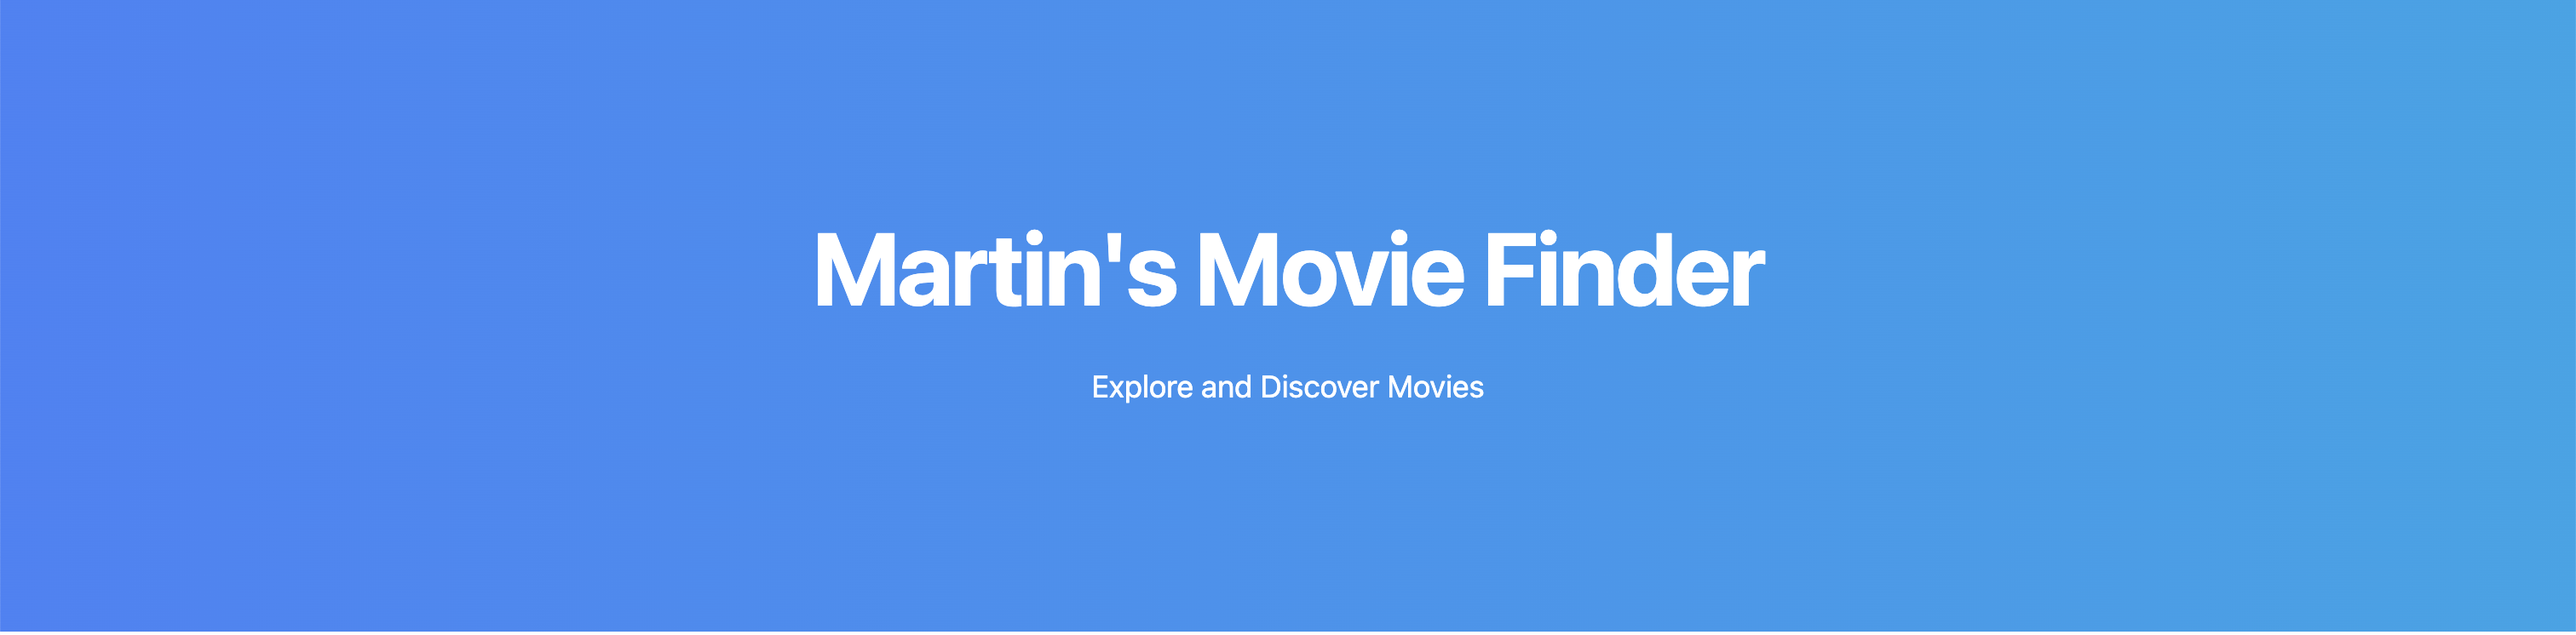
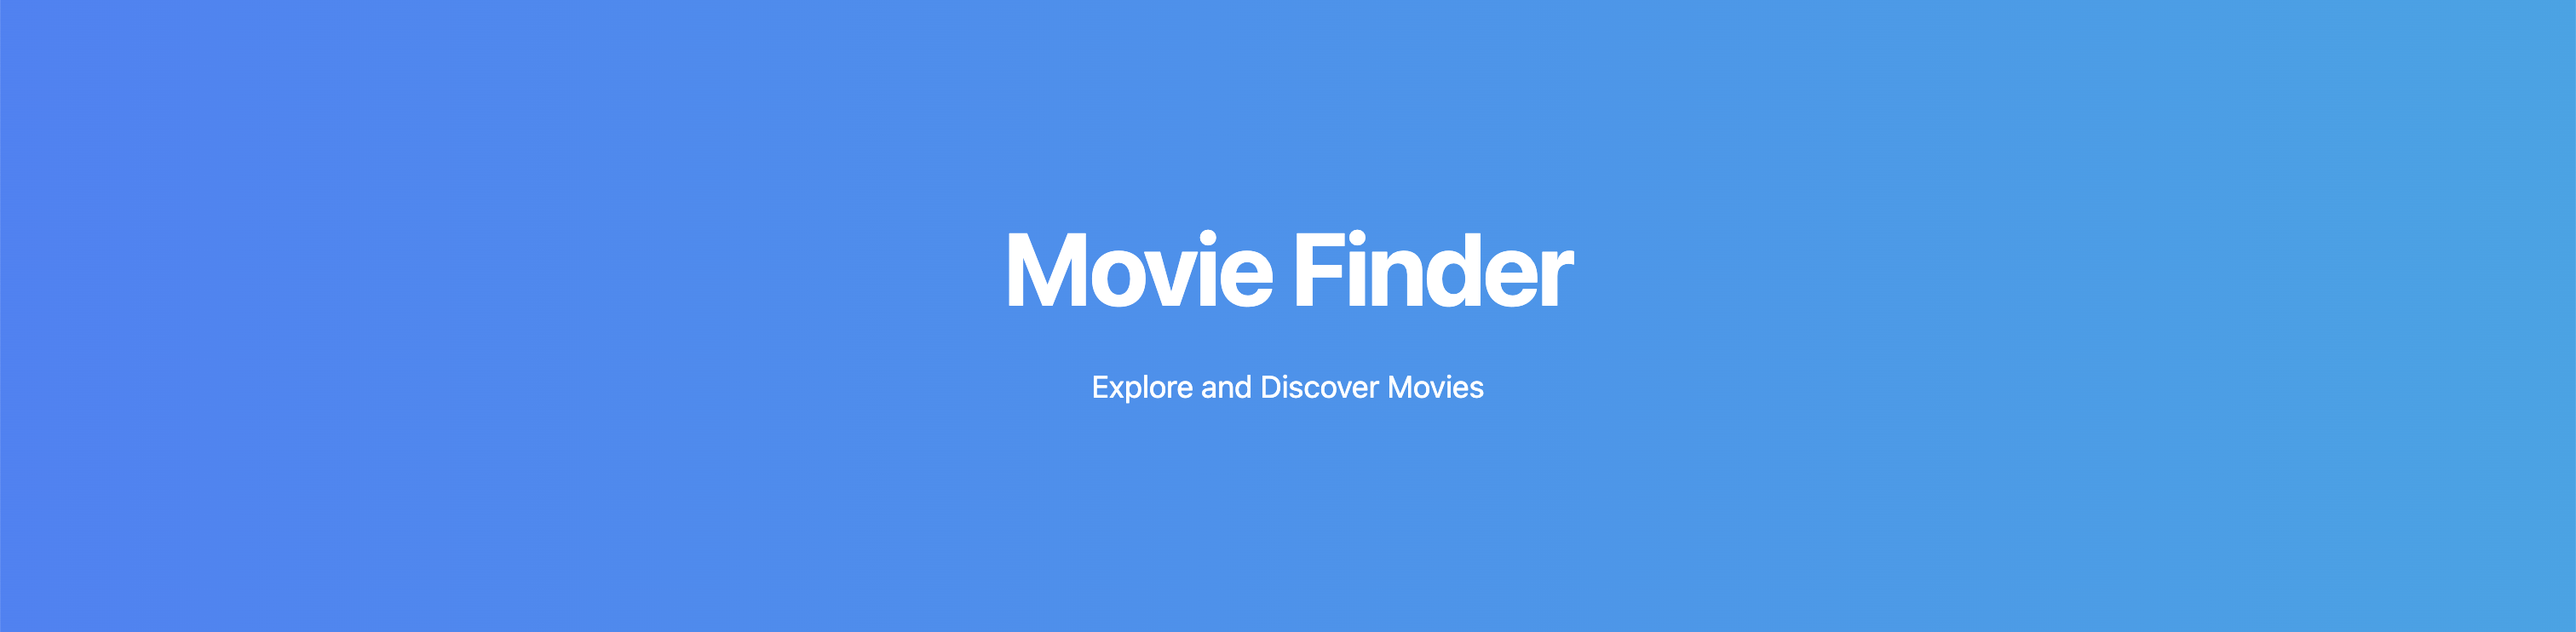
minor change

Changed region(s): [[0.3108, 0.341, 0.6839, 0.496], [0.0, 0.9919, 1.0, 1.0], [0.4041, 0.5889, 0.5906, 0.6509]]

diff --git a/src/components/Sections/Header/Header.tsx b/src/components/Sections/Header/Header.tsx
@@ -2,7 +2,7 @@ const Header = () => (
 	<div className="sticky md:relative z-20 flex bg-gradient-to-r from-blue-500 to-sky-500 px-6 py-6 md:py-32 lg:px-8">
 		<div className="mx-auto max-w-2xl text-center">
 			<h2 className="text-4xl font-bold tracking-tight text-white md:text-6xl">
-				Martin&apos;s Movie Finder
+				Movie Finder
 			</h2>
 			<p className="hidden md:block mt-6 text-lg leading-8 text-white">
 				Explore and Discover Movies

diff --git a/README.md b/README.md
@@ -1,7 +1,7 @@
-# Martin's Movies
+# Movie Finder
 
 ## Description
-Martin's Movies is a web application that allows users to search movies. It provides pagination, pulled dynamically from The Movie Database (TMDb) API, and supports searching by keyword. Built using Next.js, Tailwind CSS, and TypeScript.
+This is a web application that allows users to search movies. It provides pagination, pulled dynamically from The Movie Database (TMDb) API, and supports searching by keyword. Built using Next.js, Tailwind CSS, and TypeScript.
 
 ## Features
 - **Movie Listings**: Browse all movies in a paginated format.
